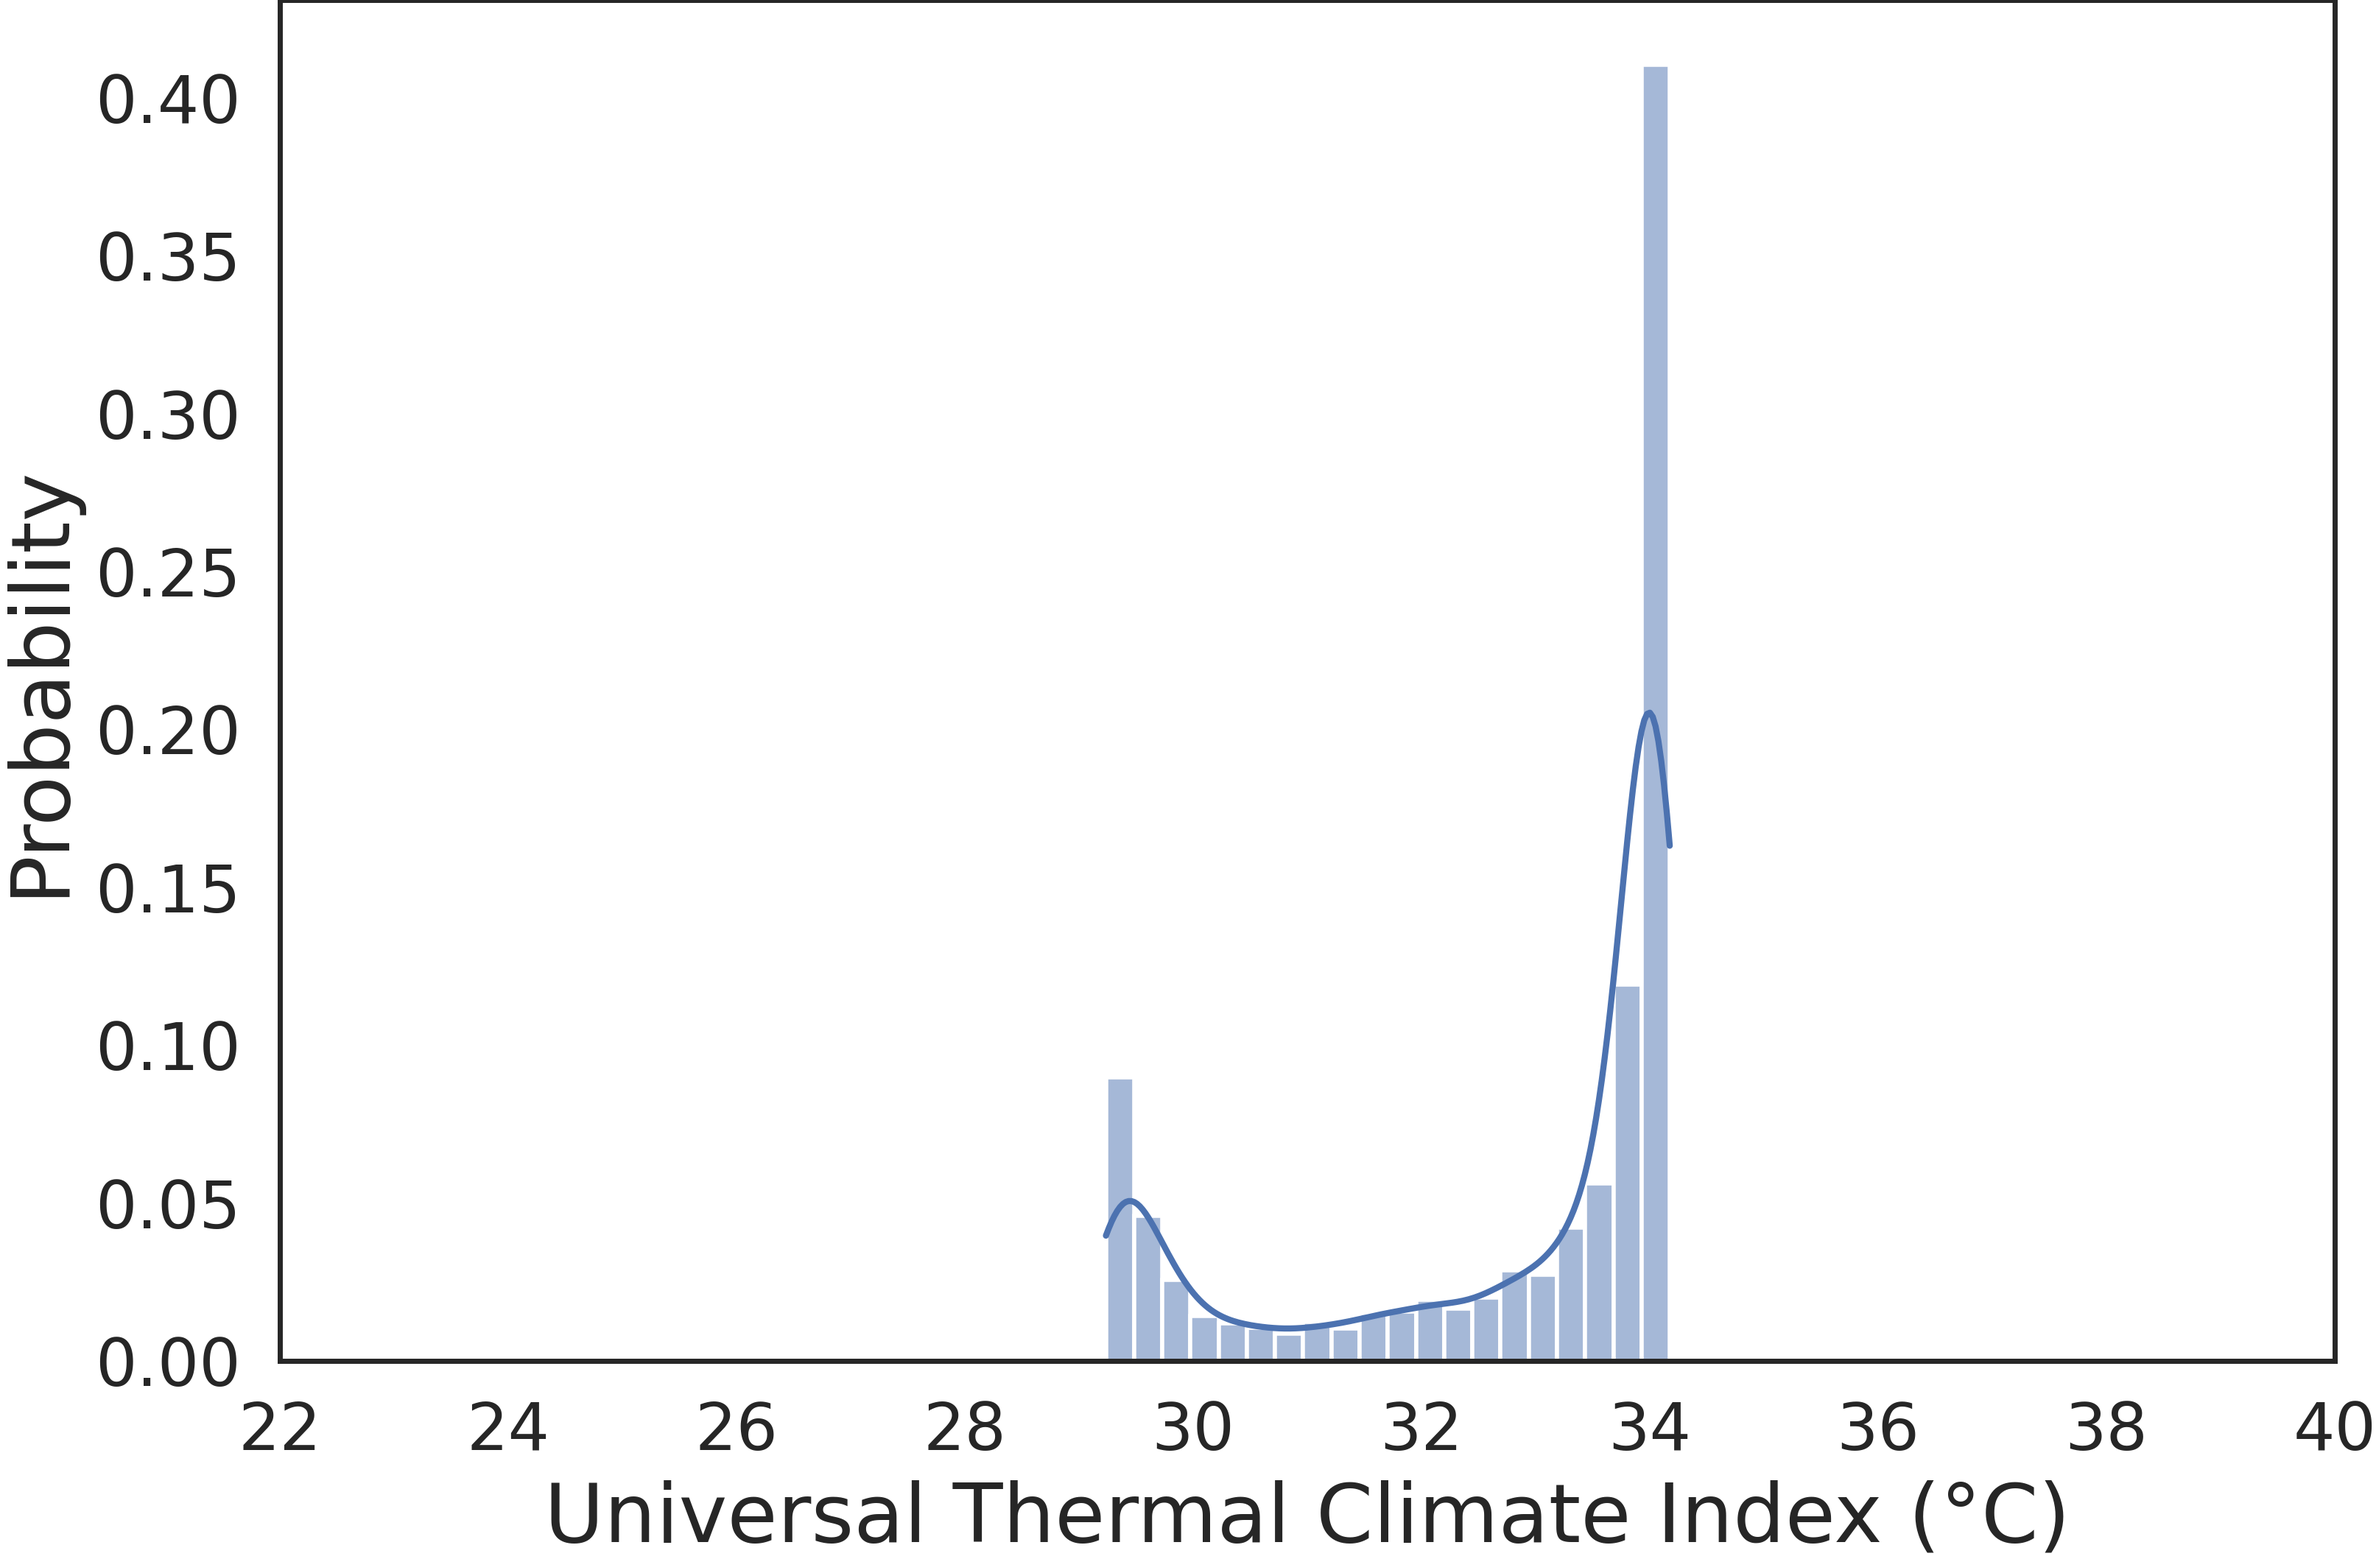
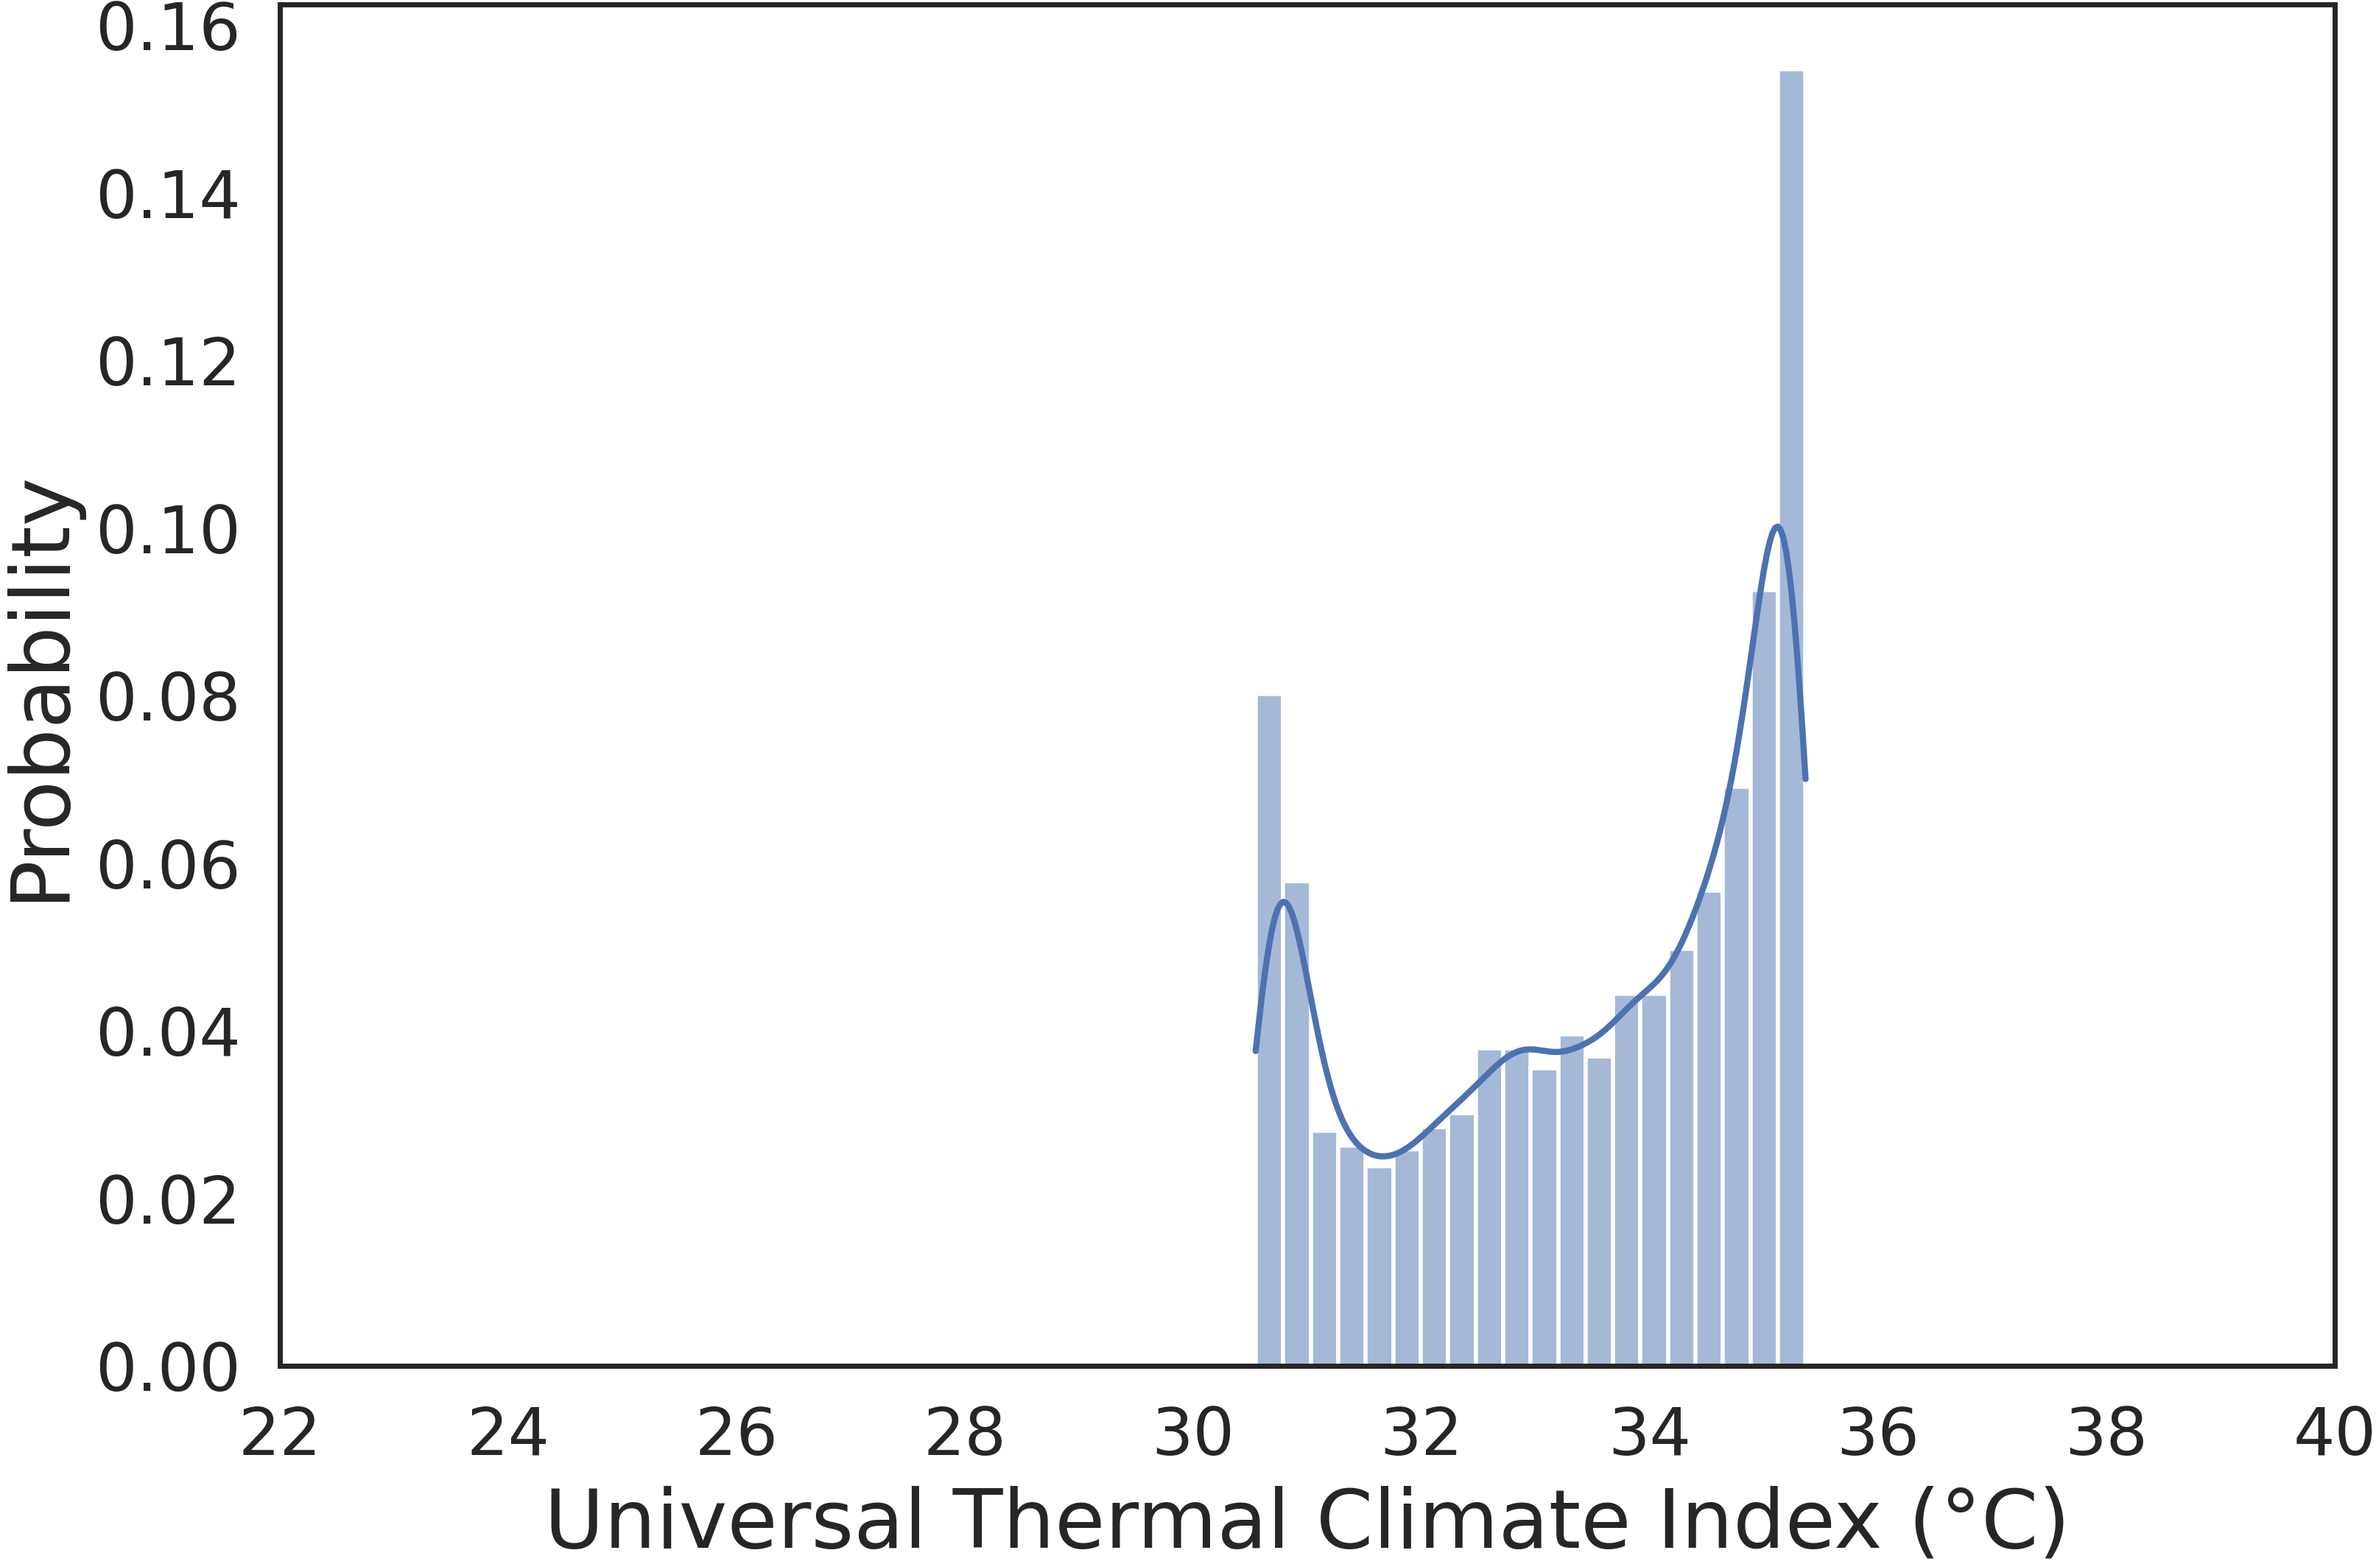
update the heatexpo for seattle ad dc, because of the height uit from m to ft

diff --git a/js/map.js b/js/map.js
@@ -92,8 +92,8 @@ var citycoords = new Object();
 citycoords["austin"] = [30.268931484822172, -97.7471287493868, 11, ['<38', '38-42', '42-50', '50-55', '55+'], ['<33', '33-34', '34-36', '36-37', '37+']];
 citycoords["boston"] = [42.31901259509799, -71.09256387480792, 11, ['<28', '28-33', '33-39', '39-45', '45+'], ['<26', '26-27', '27-29', '29-30', '30+']];
 citycoords['baltimore'] = [39.31123765013042, -76.61840913262718, 11, ['<34', '34-40', '40-45', '45-50', '50+'], ['<29', '29-30', '30-31', '31-32', '32+']];
-citycoords['washington'] = [38.91534357808685, -77.02192823438375, 11, ['<35', '35-40', '40-47', '47-52', '55+'], ['<29', '29-31', '31-32', '32-34', '34+']];
-citycoords['seattle'] = [47.61555186154012, -122.3435799256088, 11, ['<27', '27-33', '33-41', '41-47', '47+'], ['<25', '25-27', '27-29', '29-30', '30+']];
+citycoords['washington'] = [38.91534357808685, -77.02192823438375, 11, ['<35', '35-41', '41-47', '47-52', '52+'], ['<31', '31-32', '32-33', '33-34', '34+']];
+citycoords['seattle'] = [47.61555186154012, -122.3435799256088, 11, ['<28', '28-33', '33-40', '40-46', '46+'], ['<26', '26-27', '27-29', '29-31', '31+']];
 citycoords['san diego'] = [32.84018393677258, -117.15608171628791, 11, ['<31', '31-39', '39-46', '46-51', '51+'], ['<25', '25-27', '27-29', '29-30', '30+']];
 citycoords['philadelphia'] = [39.98675663514595, -75.15313882264648, 11, ['<30', '30-36', '36-42', '42-47', '47+'], ['<26', '26-27', '27-29', '29-30', '30+']];
 citycoords['miami'] = [25.777476201525072, -80.21834080668762, 11, ['<34', '34-40', '40-46', '46-52', '52+'], ['<30', '30-31', '31-33', '33-34', '34+']];

diff --git a/index.html b/index.html
@@ -577,7 +577,7 @@
                   </tr>
                   <tr>
                     <td>Std. Deviation</td>
-                    <td>2.3 <span>&#176;C</span></td>
+                    <td>2.1 <span>&#176;C</span></td>
                   </tr>
                 </table>
               </div>
@@ -596,11 +596,11 @@
                 <table style="width:75%; margin-left:auto;margin-right:auto;">
                   <tr>
                     <td>Mean value: </td>
-                    <td>32.8 <span>&#176;C</span></td>
+                    <td>33.4 <span>&#176;C</span></td>
                   </tr>
                   <tr>
                     <td>Std. Deviation</td>
-                    <td>1.7 <span>&#176;C</span></td>
+                    <td>1.6 <span>&#176;C</span></td>
                   </tr>
                 </table>
               </div>
